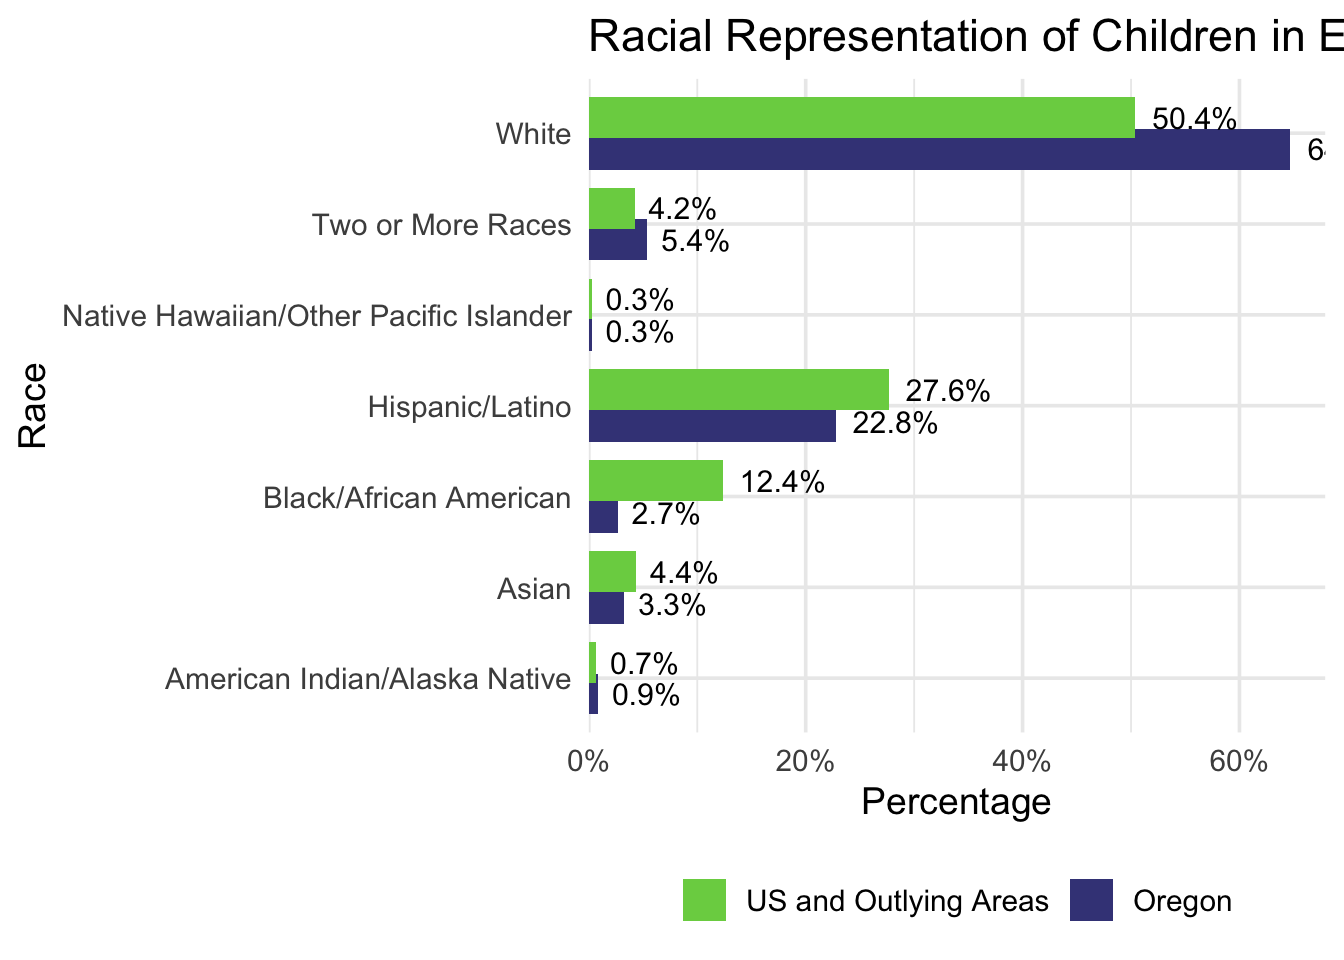
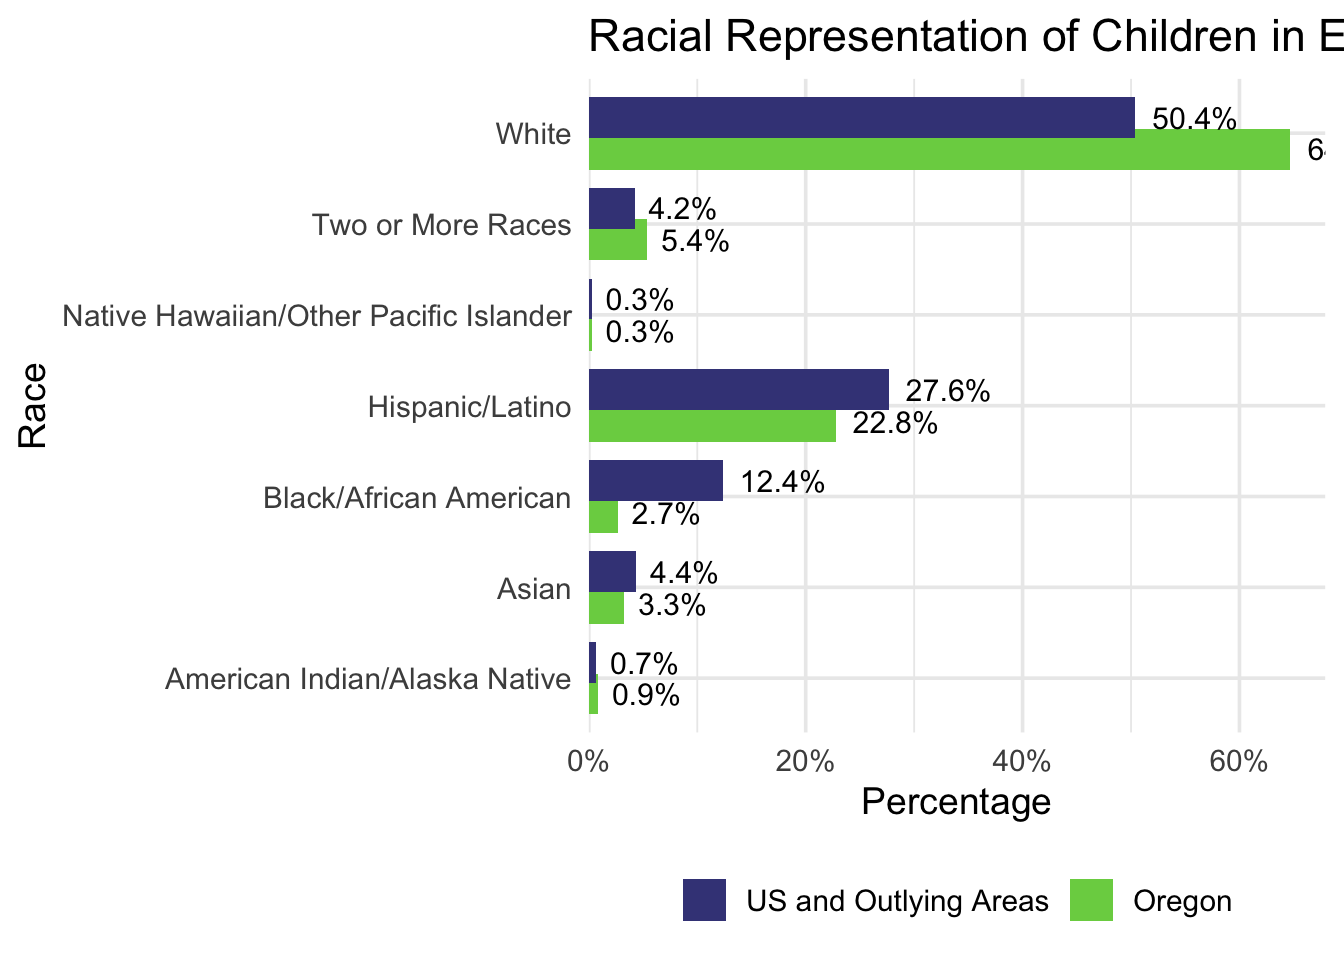
Add new files and images

diff --git a/docs/posts/viz_2/index.html b/docs/posts/viz_2/index.html
@@ -293,7 +293,6 @@ pre > code.sourceCode > span > a:first-child::before { text-decoration: underlin
 </div>
 </div>
 </div>
-<p>After making adjustments to show the data more clearly and accurately, here it is—the final version that shows the data best! Flipping the X and Y axes helps readers understand the categories more easily, and the data labels make it clearer to see the exact differences between the national data and Oregon’s data. I also used the Okabe-Ito color palette, assigning specific colors for both the national data and Oregon’s data to maintain consistency in future visualizations.</p>
 <div class="cell">
 <details class="code-fold">
 <summary>Code</summary>
@@ -344,52 +343,59 @@ pre > code.sourceCode > span > a:first-child::before { text-decoration: underlin
 </div>
 </div>
 </div>
+<p>After making adjustments to show the data more clearly and accurately, here it is—the final version that shows the data best! Flipping the X and Y axes helps readers understand the categories more easily, and the data labels make it clearer to see the exact differences between the national data and Oregon’s data. I also used the Okabe-Ito color palette, assigning specific colors for both the national data and Oregon’s data to maintain consistency in future visualizations.</p>
 <div class="cell">
 <details class="code-fold">
 <summary>Code</summary>
 <div class="sourceCode cell-code" id="cb7"><pre class="sourceCode r code-with-copy"><code class="sourceCode r"><span id="cb7-1"><a href="#cb7-1" aria-hidden="true" tabindex="-1"></a>viridis_colors <span class="ot">&lt;-</span> <span class="fu">c</span>(</span>
-<span id="cb7-2"><a href="#cb7-2" aria-hidden="true" tabindex="-1"></a>  <span class="st">"Oregon"</span> <span class="ot">=</span> <span class="st">"#414487"</span>,               </span>
-<span id="cb7-3"><a href="#cb7-3" aria-hidden="true" tabindex="-1"></a>  <span class="st">"US and Outlying Areas"</span> <span class="ot">=</span> <span class="st">"#7ad151"</span>) </span></code><button title="Copy to Clipboard" class="code-copy-button"><i class="bi"></i></button></pre></div>
+<span id="cb7-2"><a href="#cb7-2" aria-hidden="true" tabindex="-1"></a>  <span class="st">"Oregon"</span> <span class="ot">=</span> <span class="st">"#7ad151"</span>,               </span>
+<span id="cb7-3"><a href="#cb7-3" aria-hidden="true" tabindex="-1"></a>  <span class="st">"US and Outlying Areas"</span> <span class="ot">=</span> <span class="st">"#414487"</span>) </span></code><button title="Copy to Clipboard" class="code-copy-button"><i class="bi"></i></button></pre></div>
 </details>
 </div>
 <div class="cell">
 <details class="code-fold">
 <summary>Code</summary>
-<div class="sourceCode cell-code" id="cb8"><pre class="sourceCode r code-with-copy"><code class="sourceCode r"><span id="cb8-1"><a href="#cb8-1" aria-hidden="true" tabindex="-1"></a><span class="fu">ggplot</span>(childcount1920USOR_long, </span>
-<span id="cb8-2"><a href="#cb8-2" aria-hidden="true" tabindex="-1"></a>       <span class="fu">aes</span>(<span class="at">x =</span> percent, </span>
-<span id="cb8-3"><a href="#cb8-3" aria-hidden="true" tabindex="-1"></a>           <span class="at">y =</span> race, </span>
-<span id="cb8-4"><a href="#cb8-4" aria-hidden="true" tabindex="-1"></a>           <span class="at">fill =</span> state)) <span class="sc">+</span> </span>
-<span id="cb8-5"><a href="#cb8-5" aria-hidden="true" tabindex="-1"></a>  <span class="fu">geom_bar</span>(<span class="at">stat =</span> <span class="st">"identity"</span>,</span>
-<span id="cb8-6"><a href="#cb8-6" aria-hidden="true" tabindex="-1"></a>           <span class="at">position =</span> <span class="fu">position_dodge</span>(</span>
-<span id="cb8-7"><a href="#cb8-7" aria-hidden="true" tabindex="-1"></a>          <span class="at">width =</span> <span class="fl">0.7</span>)) <span class="sc">+</span>  </span>
-<span id="cb8-8"><a href="#cb8-8" aria-hidden="true" tabindex="-1"></a>  <span class="fu">scale_fill_manual</span>(</span>
-<span id="cb8-9"><a href="#cb8-9" aria-hidden="true" tabindex="-1"></a>    <span class="at">values =</span> viridis_colors, </span>
-<span id="cb8-10"><a href="#cb8-10" aria-hidden="true" tabindex="-1"></a>    <span class="at">breaks =</span> <span class="fu">c</span>(<span class="st">"US and Outlying Areas"</span>, <span class="st">"Oregon"</span>),         </span>
-<span id="cb8-11"><a href="#cb8-11" aria-hidden="true" tabindex="-1"></a>    <span class="at">labels =</span> <span class="fu">c</span>(<span class="st">"US and Outlying Areas"</span>, <span class="st">"Oregon"</span>)          </span>
-<span id="cb8-12"><a href="#cb8-12" aria-hidden="true" tabindex="-1"></a>  ) <span class="sc">+</span></span>
-<span id="cb8-13"><a href="#cb8-13" aria-hidden="true" tabindex="-1"></a>  <span class="fu">scale_x_continuous</span>(</span>
-<span id="cb8-14"><a href="#cb8-14" aria-hidden="true" tabindex="-1"></a>    <span class="at">labels =</span> <span class="fu">percent_format</span>(<span class="at">scale =</span> <span class="dv">1</span>), </span>
-<span id="cb8-15"><a href="#cb8-15" aria-hidden="true" tabindex="-1"></a>    <span class="at">expand =</span> <span class="fu">expansion</span>(<span class="at">mult =</span> <span class="fu">c</span>(<span class="dv">0</span>, <span class="fl">0.05</span>))) <span class="sc">+</span></span>
-<span id="cb8-16"><a href="#cb8-16" aria-hidden="true" tabindex="-1"></a>  <span class="fu">labs</span>(</span>
-<span id="cb8-17"><a href="#cb8-17" aria-hidden="true" tabindex="-1"></a>    <span class="at">title =</span> <span class="st">"Racial Representation of Children in EI"</span>,</span>
-<span id="cb8-18"><a href="#cb8-18" aria-hidden="true" tabindex="-1"></a>    <span class="at">x =</span> <span class="st">"Percentage"</span>,</span>
-<span id="cb8-19"><a href="#cb8-19" aria-hidden="true" tabindex="-1"></a>    <span class="at">y =</span> <span class="st">"Race"</span>,</span>
-<span id="cb8-20"><a href="#cb8-20" aria-hidden="true" tabindex="-1"></a>    <span class="at">fill =</span> <span class="cn">NULL</span>) <span class="sc">+</span></span>
-<span id="cb8-21"><a href="#cb8-21" aria-hidden="true" tabindex="-1"></a>  <span class="fu">geom_text</span>(<span class="fu">aes</span>(</span>
-<span id="cb8-22"><a href="#cb8-22" aria-hidden="true" tabindex="-1"></a>    <span class="at">label =</span> scales<span class="sc">::</span><span class="fu">percent</span>(percent <span class="sc">/</span> <span class="dv">100</span>, <span class="at">accuracy =</span> <span class="fl">0.1</span>)), </span>
-<span id="cb8-23"><a href="#cb8-23" aria-hidden="true" tabindex="-1"></a>    <span class="at">position =</span> <span class="fu">position_dodge</span>(<span class="at">width =</span> <span class="fl">0.7</span>), </span>
-<span id="cb8-24"><a href="#cb8-24" aria-hidden="true" tabindex="-1"></a>    <span class="at">hjust =</span> <span class="sc">-</span><span class="fl">0.2</span>,  </span>
-<span id="cb8-25"><a href="#cb8-25" aria-hidden="true" tabindex="-1"></a>    <span class="at">color =</span> <span class="st">"black"</span>, </span>
-<span id="cb8-26"><a href="#cb8-26" aria-hidden="true" tabindex="-1"></a>    <span class="at">size =</span> <span class="dv">4</span>) <span class="sc">+</span>  </span>
-<span id="cb8-27"><a href="#cb8-27" aria-hidden="true" tabindex="-1"></a>  <span class="fu">theme_minimal</span>(<span class="at">base_size =</span> <span class="dv">14</span>) <span class="sc">+</span></span>
-<span id="cb8-28"><a href="#cb8-28" aria-hidden="true" tabindex="-1"></a>  <span class="fu">theme</span>(</span>
-<span id="cb8-29"><a href="#cb8-29" aria-hidden="true" tabindex="-1"></a>    <span class="at">legend.position =</span> <span class="st">"bottom"</span></span>
-<span id="cb8-30"><a href="#cb8-30" aria-hidden="true" tabindex="-1"></a>  )</span></code><button title="Copy to Clipboard" class="code-copy-button"><i class="bi"></i></button></pre></div>
+<div class="sourceCode cell-code" id="cb8"><pre class="sourceCode r code-with-copy"><code class="sourceCode r"><span id="cb8-1"><a href="#cb8-1" aria-hidden="true" tabindex="-1"></a>childcount1920USOR_long<span class="sc">$</span>race <span class="ot">&lt;-</span> <span class="fu">factor</span>(childcount1920USOR_long<span class="sc">$</span>race, <span class="at">levels =</span> <span class="fu">sort</span>(<span class="fu">unique</span>(childcount1920USOR_long<span class="sc">$</span>race)))</span>
+<span id="cb8-2"><a href="#cb8-2" aria-hidden="true" tabindex="-1"></a>childcount1920USOR_long<span class="sc">$</span>race <span class="ot">&lt;-</span> forcats<span class="sc">::</span><span class="fu">fct_rev</span>(childcount1920USOR_long<span class="sc">$</span>race)</span></code><button title="Copy to Clipboard" class="code-copy-button"><i class="bi"></i></button></pre></div>
+</details>
+</div>
+<div class="cell">
+<details class="code-fold">
+<summary>Code</summary>
+<div class="sourceCode cell-code" id="cb9"><pre class="sourceCode r code-with-copy"><code class="sourceCode r"><span id="cb9-1"><a href="#cb9-1" aria-hidden="true" tabindex="-1"></a><span class="fu">ggplot</span>(childcount1920USOR_long, </span>
+<span id="cb9-2"><a href="#cb9-2" aria-hidden="true" tabindex="-1"></a>       <span class="fu">aes</span>(<span class="at">x =</span> percent, </span>
+<span id="cb9-3"><a href="#cb9-3" aria-hidden="true" tabindex="-1"></a>           <span class="at">y =</span> race, </span>
+<span id="cb9-4"><a href="#cb9-4" aria-hidden="true" tabindex="-1"></a>           <span class="at">fill =</span> state)) <span class="sc">+</span> </span>
+<span id="cb9-5"><a href="#cb9-5" aria-hidden="true" tabindex="-1"></a>  <span class="fu">geom_bar</span>(<span class="at">stat =</span> <span class="st">"identity"</span>,</span>
+<span id="cb9-6"><a href="#cb9-6" aria-hidden="true" tabindex="-1"></a>           <span class="at">position =</span> <span class="fu">position_dodge</span>(<span class="at">width =</span> <span class="fl">0.7</span>)) <span class="sc">+</span>  </span>
+<span id="cb9-7"><a href="#cb9-7" aria-hidden="true" tabindex="-1"></a>  <span class="fu">scale_fill_manual</span>(</span>
+<span id="cb9-8"><a href="#cb9-8" aria-hidden="true" tabindex="-1"></a>    <span class="at">values =</span> viridis_colors, </span>
+<span id="cb9-9"><a href="#cb9-9" aria-hidden="true" tabindex="-1"></a>    <span class="at">breaks =</span> <span class="fu">c</span>(<span class="st">"US and Outlying Areas"</span>, <span class="st">"Oregon"</span>),         </span>
+<span id="cb9-10"><a href="#cb9-10" aria-hidden="true" tabindex="-1"></a>    <span class="at">labels =</span> <span class="fu">c</span>(<span class="st">"US and Outlying Areas"</span>, <span class="st">"Oregon"</span>)          </span>
+<span id="cb9-11"><a href="#cb9-11" aria-hidden="true" tabindex="-1"></a>  ) <span class="sc">+</span></span>
+<span id="cb9-12"><a href="#cb9-12" aria-hidden="true" tabindex="-1"></a>  <span class="fu">scale_x_continuous</span>(</span>
+<span id="cb9-13"><a href="#cb9-13" aria-hidden="true" tabindex="-1"></a>    <span class="at">labels =</span> <span class="fu">percent_format</span>(<span class="at">scale =</span> <span class="dv">1</span>), </span>
+<span id="cb9-14"><a href="#cb9-14" aria-hidden="true" tabindex="-1"></a>    <span class="at">expand =</span> <span class="fu">expansion</span>(<span class="at">mult =</span> <span class="fu">c</span>(<span class="dv">0</span>, <span class="fl">0.05</span>))) <span class="sc">+</span></span>
+<span id="cb9-15"><a href="#cb9-15" aria-hidden="true" tabindex="-1"></a>  <span class="fu">labs</span>(</span>
+<span id="cb9-16"><a href="#cb9-16" aria-hidden="true" tabindex="-1"></a>    <span class="at">title =</span> <span class="st">"Racial Representation of Children in EI"</span>,</span>
+<span id="cb9-17"><a href="#cb9-17" aria-hidden="true" tabindex="-1"></a>    <span class="at">x =</span> <span class="st">"Percentage"</span>,</span>
+<span id="cb9-18"><a href="#cb9-18" aria-hidden="true" tabindex="-1"></a>    <span class="at">y =</span> <span class="st">"Race"</span>,</span>
+<span id="cb9-19"><a href="#cb9-19" aria-hidden="true" tabindex="-1"></a>    <span class="at">fill =</span> <span class="cn">NULL</span>) <span class="sc">+</span></span>
+<span id="cb9-20"><a href="#cb9-20" aria-hidden="true" tabindex="-1"></a>  <span class="fu">geom_text</span>(<span class="fu">aes</span>(</span>
+<span id="cb9-21"><a href="#cb9-21" aria-hidden="true" tabindex="-1"></a>    <span class="at">label =</span> scales<span class="sc">::</span><span class="fu">percent</span>(percent <span class="sc">/</span> <span class="dv">100</span>, <span class="at">accuracy =</span> <span class="fl">0.1</span>)), </span>
+<span id="cb9-22"><a href="#cb9-22" aria-hidden="true" tabindex="-1"></a>    <span class="at">position =</span> <span class="fu">position_dodge</span>(<span class="at">width =</span> <span class="fl">0.7</span>), </span>
+<span id="cb9-23"><a href="#cb9-23" aria-hidden="true" tabindex="-1"></a>    <span class="at">hjust =</span> <span class="sc">-</span><span class="fl">0.2</span>,  </span>
+<span id="cb9-24"><a href="#cb9-24" aria-hidden="true" tabindex="-1"></a>    <span class="at">color =</span> <span class="st">"black"</span>, </span>
+<span id="cb9-25"><a href="#cb9-25" aria-hidden="true" tabindex="-1"></a>    <span class="at">size =</span> <span class="dv">4</span>) <span class="sc">+</span>  </span>
+<span id="cb9-26"><a href="#cb9-26" aria-hidden="true" tabindex="-1"></a>  <span class="fu">theme_minimal</span>(<span class="at">base_size =</span> <span class="dv">14</span>) <span class="sc">+</span></span>
+<span id="cb9-27"><a href="#cb9-27" aria-hidden="true" tabindex="-1"></a>  <span class="fu">theme</span>(</span>
+<span id="cb9-28"><a href="#cb9-28" aria-hidden="true" tabindex="-1"></a>    <span class="at">legend.position =</span> <span class="st">"bottom"</span></span>
+<span id="cb9-29"><a href="#cb9-29" aria-hidden="true" tabindex="-1"></a>  )</span></code><button title="Copy to Clipboard" class="code-copy-button"><i class="bi"></i></button></pre></div>
 </details>
 <div class="cell-output-display">
 <div>
 <figure class="figure">
-<p><img src="index_files/figure-html/unnamed-chunk-14-1.png" class="img-fluid figure-img" width="672"></p>
+<p><img src="index_files/figure-html/unnamed-chunk-15-1.png" class="img-fluid figure-img" width="768"></p>
 </figure>
 </div>
 </div>

diff --git a/docs/index.html b/docs/index.html
@@ -278,7 +278,7 @@ Maiko Hata
 </a>
 </div>
 </div>
-<div class="quarto-post image-right" data-index="2" data-categories="dmlzdWFsaXphdGlvbiUyQ2NvZGUlMkNhbmFseXNpcw==" data-listing-date-sort="1740729600000" data-listing-file-modified-sort="1741055068669" data-listing-date-modified-sort="NaN" data-listing-reading-time-sort="8" data-listing-word-count-sort="1471">
+<div class="quarto-post image-right" data-index="2" data-categories="dmlzdWFsaXphdGlvbiUyQ2NvZGUlMkNhbmFseXNpcw==" data-listing-date-sort="1740729600000" data-listing-file-modified-sort="1741056616709" data-listing-date-modified-sort="NaN" data-listing-reading-time-sort="8" data-listing-word-count-sort="1469">
 <div class="thumbnail">
 <p><a href="./posts/viz_2/index.html" class="no-external"></a></p><a href="./posts/viz_2/index.html" class="no-external">
 <p><img loading="lazy" src="./posts/viz_2/ggplot_geom_bar_cc.png" class="thumbnail-image"></p>
@@ -356,7 +356,7 @@ Maiko Hata
 </a>
 </div>
 </div>
-<div class="quarto-post image-right" data-index="4" data-categories="bmV3cw==" data-listing-date-sort="1740470400000" data-listing-file-modified-sort="1741035264851" data-listing-date-modified-sort="NaN" data-listing-reading-time-sort="1" data-listing-word-count-sort="108">
+<div class="quarto-post image-right" data-index="4" data-categories="bmV3cw==" data-listing-date-sort="1740470400000" data-listing-file-modified-sort="1741056741424" data-listing-date-modified-sort="NaN" data-listing-reading-time-sort="1" data-listing-word-count-sort="108">
 <div class="thumbnail">
 <p><a href="./posts/welcome/index.html" class="no-external"></a></p><a href="./posts/welcome/index.html" class="no-external">
 <p class="card-img-top"><img src="images/uo.jpg" alt="University of Oregon sign with flowers"  class="thumbnail-image card-img"/></p>

diff --git a/docs/posts/welcome/index.html b/docs/posts/welcome/index.html
@@ -151,7 +151,7 @@ ul.task-list li input[type="checkbox"] {
 
 <p>Welcome to my blog! I created this blog as part of my <a href="https://education.uoregon.edu/">Educational Data Science</a> course at the University of Oregon, where I am a doctorate student in educational leadership. Just a few months ago, I was completely new to R, RStudio, and GitHub.</p>
 <p>I also work as an Autism &amp; Behavior Consultant at an outreach agency, <a href="https://earlychildhoodcares.uoregon.edu/">Early Childhood CARES</a>, in the College of Education. This role motivated me to learn more so I can better support infants and toddlers who experience Autism and/or Developmental Disability and their families.</p>
-<p>For more information, please check out my <a href="https://www.linkedin.com/in/maikohata">LinkedIn</a> page!</p>
+<p>For more information, please check out my <a href="https://www.linkedin.com/in/maikohata">LinkedIn</a> page.</p>
 <div class="quarto-figure quarto-figure-center">
 <figure class="figure">
 <p><img src="../../images/uo.jpg" class="img-fluid figure-img" alt="University of Oregon sign with flowers" width="1684"></p>
